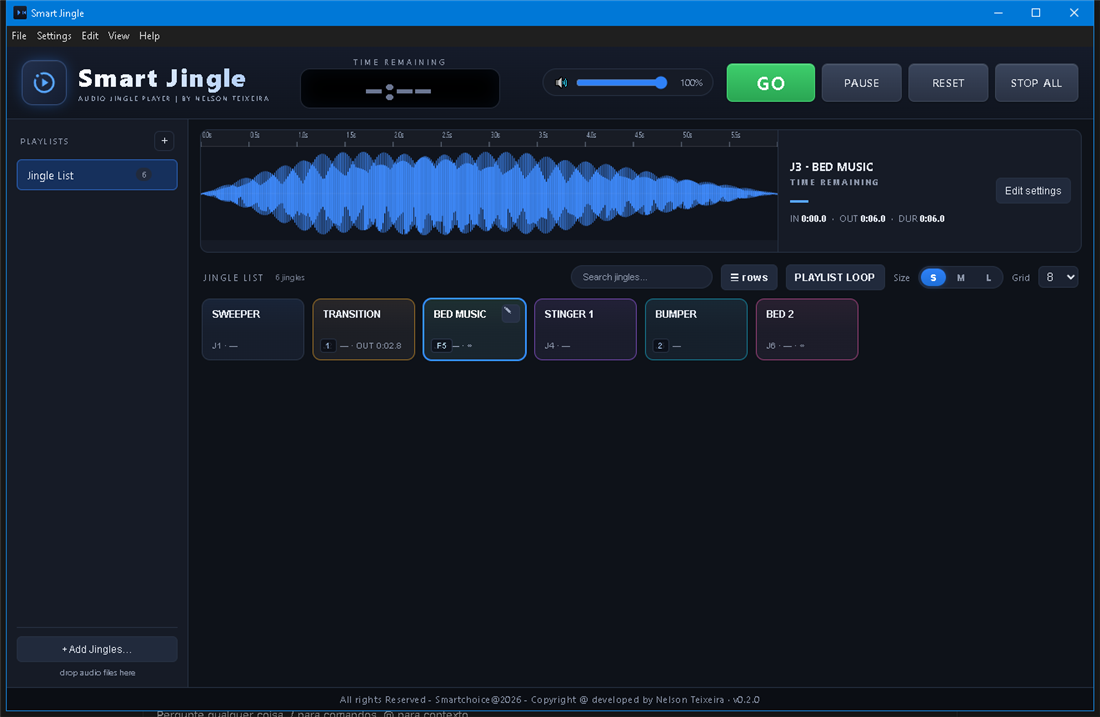
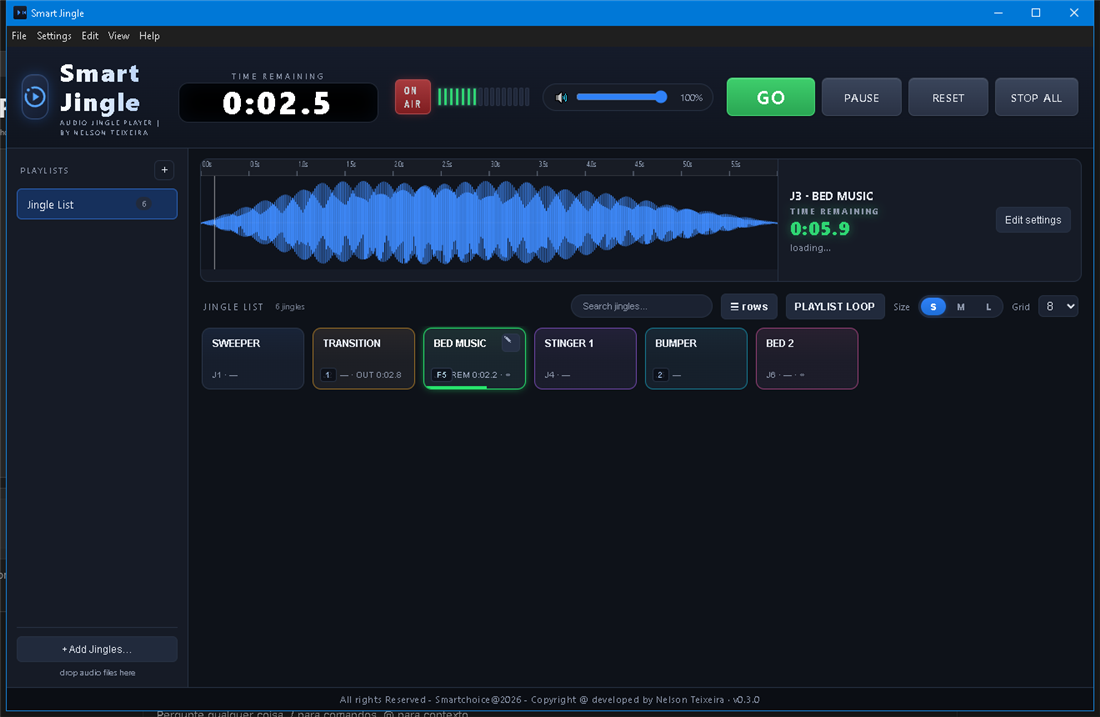
Gain reflects in editor waveform + updated production screenshot (VU/ON-AIR)

diff --git a/src/renderer/waveform.js b/src/renderer/waveform.js
@@ -68,12 +68,13 @@
     const w = canvas.width;
     const h = canvas.height;
     const g = canvas.getContext('2d');
-    const { inS = 0, outS = null, playhead = null, selected = false, colors, view = null, ruler = false } = opts || {};
+    const { inS = 0, outS = null, playhead = null, selected = false, colors, view = null, ruler = false, gainScale = 1 } = opts || {};
 
     const dur = wave.duration || 1;
     const out = outS === null || outS === undefined ? dur : outS;
     const peaks = wave.peaks;
     const n = peaks.length / 2;
+    const gs = isFinite(gainScale) ? Math.max(0, gainScale) : 1;
 
     const rulerH = ruler ? 20 : 0;
     const waveH = h - rulerH;
@@ -116,8 +117,8 @@
         }
         const bw = Math.max(1.5, pxs / buckets);
         const x = x0 + b * bw;
-        const y0 = mid - max * amp;
-        const y1 = mid - min * amp;
+        const y0 = mid - max * amp * gs;
+        const y1 = mid - min * amp * gs;
         g.fillRect(x, y0, bw, Math.max(1.5, y1 - y0));
       }
     };

diff --git a/src/renderer/app.js b/src/renderer/app.js
@@ -485,6 +485,7 @@
         playhead: preview ? preview.currentTime : null,
         view: edView,
         ruler: true,
+        gainScale: vol / 100,
         colors: { inside: '#3f8cff', outside: 'rgba(120,130,150,0.25)' },
       });
       $('#ed-in').textContent = SJPlayer.fmt(inS);
@@ -613,6 +614,7 @@
       $('#ed-db-val').textContent = volToDb(vol).toFixed(1) + ' dB';
       $('#ed-db').value = volToDb(vol).toFixed(1);
       if (preview) preview.volume = vol / 100;
+      if (wave) draw();
     };
     syncVol();
     $('#ed-vol').addEventListener('input', (e) => {

diff --git a/README.md b/README.md
@@ -15,7 +15,7 @@ remotely from a tablet, another PC or a Bitfocus Companion surface.
 
 ## Screenshots / Style guide
 
-### Main window (grid view) — BED MUSIC selected with its waveform
+### Main window (grid view) — BED MUSIC on air: VU meter, ON-AIR and waveform
 
 ![Smart Jingle grid view](docs/screenshots/grid-bed-music.png)
 
